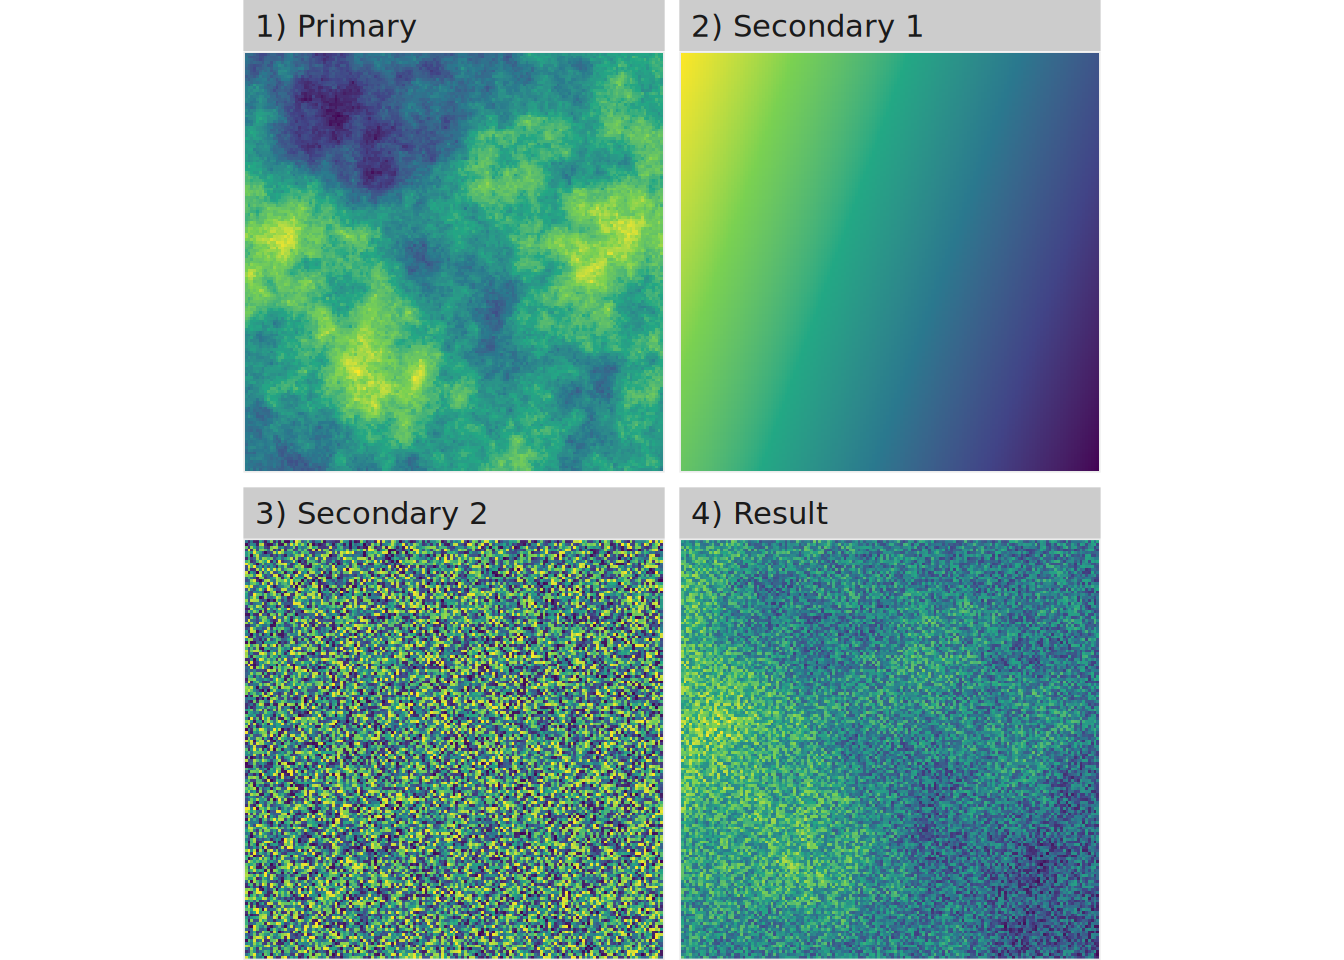
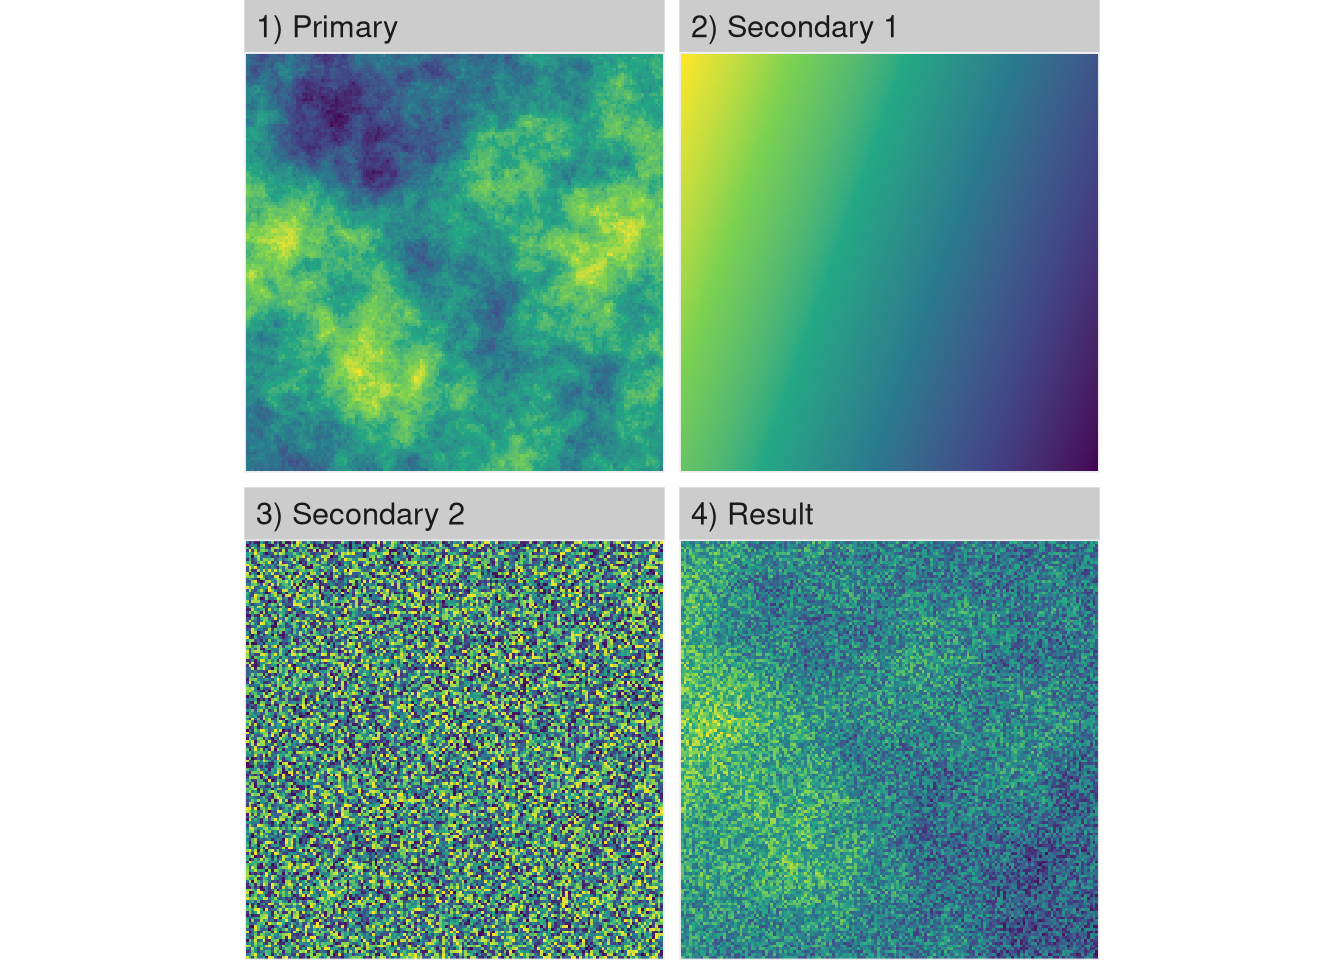
ci: add cran-checks workflow

diff --git a/README.md b/README.md
@@ -3,12 +3,14 @@
 
 [![R-CMD-check](https://github.com/ropensci/landscapetools/workflows/R-CMD-check/badge.svg)](https://github.com/ropensci/landscapetools/actions)
 [![codecov](https://codecov.io/gh/ropensci/landscapetools/branch/develop/graph/badge.svg)](https://codecov.io/gh/ropensci/landscapetools)
-[![Lifecycle: stable](https://img.shields.io/badge/lifecycle-stable-brightgreen.svg)](https://lifecycle.r-lib.org/articles/stages.html#stable)
+[![lifecycle](https://img.shields.io/badge/lifecycle-maturing-blue.svg)](https://www.tidyverse.org/lifecycle/#maturing)
 [![CRAN
 status](https://www.r-pkg.org/badges/version/landscapetools)](https://cran.r-project.org/package=landscapetools)
+[![Check CRAN
+status](https://github.com/ropensci/landscapetools/actions/workflows/cran-checks.yaml/badge.svg)](https://github.com/ropensci/landscapetools/actions/workflows/cran-checks.yaml)
 [![](http://cranlogs.r-pkg.org/badges/grand-total/landscapetools)](http://cran.rstudio.com/web/packages/landscapetools/index.html)
 [![](https://badges.ropensci.org/188_status.svg)](https://github.com/ropensci/onboarding/issues/188)
-[![DOI:10.1111/2041-210X.13076](https://img.shields.io/badge/DOI-10.1111%2F2041--210X.13076-blue)](https://doi.org/10.1111/2041-210X.13076)
+[![DOI:10.1111/2041-210X.13076](https://zenodo.org/badge/DOI/10.1111/2041-210X.13076.svg)](https://doi.org/10.1111/2041-210X.13076)
 
 <!-- badges: end -->
 
@@ -73,14 +75,14 @@ devtools::install_github("ropensci/landscapetools")
 # Classify the landscape into land uses
 classified_landscape <- util_classify(fractal_landscape,
                                       n = 3,
-                                      level_names = c("Land Use 1", 
+                                      level_names = c("Land Use 1",
                                                       "Land Use 2",
                                                       "Land Use 3"))
 
 show_landscape(classified_landscape, discrete = TRUE)
 ```
 
-<img src="man/figures/README-unnamed-chunk-1-1.png" width="100%" />
+<img src="man/figures/README-unnamed-chunk-1-1.png" alt="" width="100%" />
 
 ### Merge
 
@@ -103,7 +105,7 @@ show_landscape(merge_vis)
 #> (`geom_raster()`).
 ```
 
-<img src="man/figures/README-unnamed-chunk-2-1.png" width="100%" />
+<img src="man/figures/README-unnamed-chunk-2-1.png" alt="" width="100%" />
 
 ## See also
 